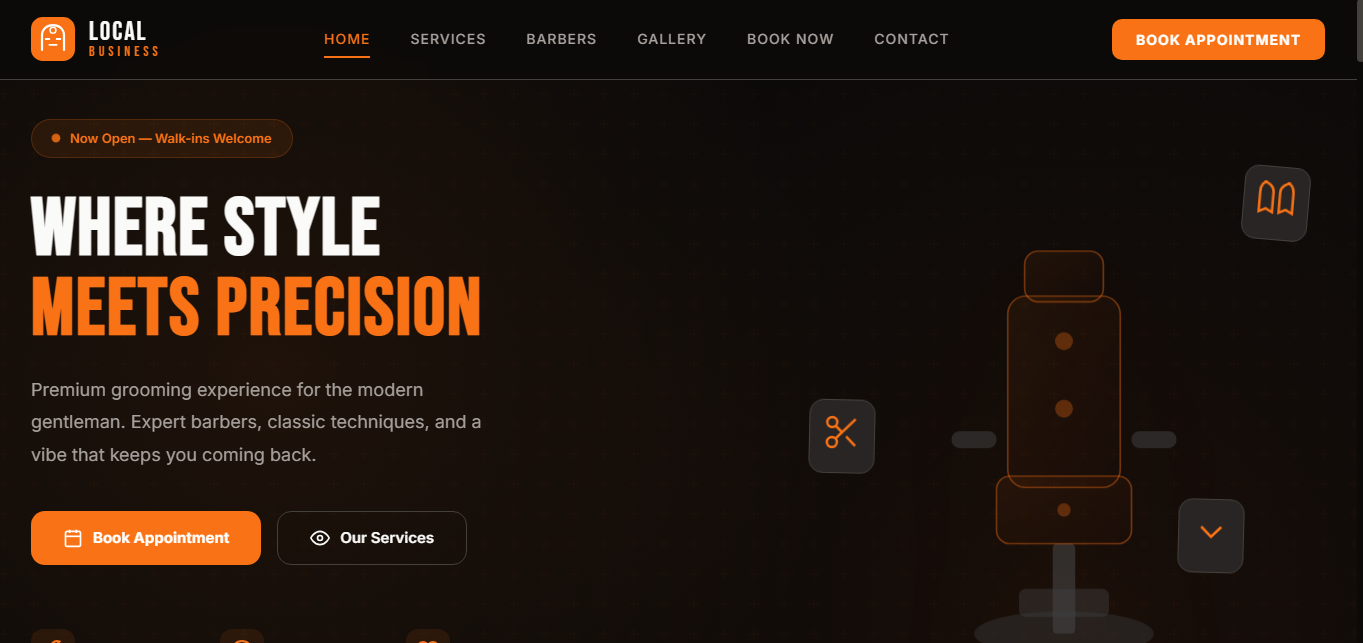
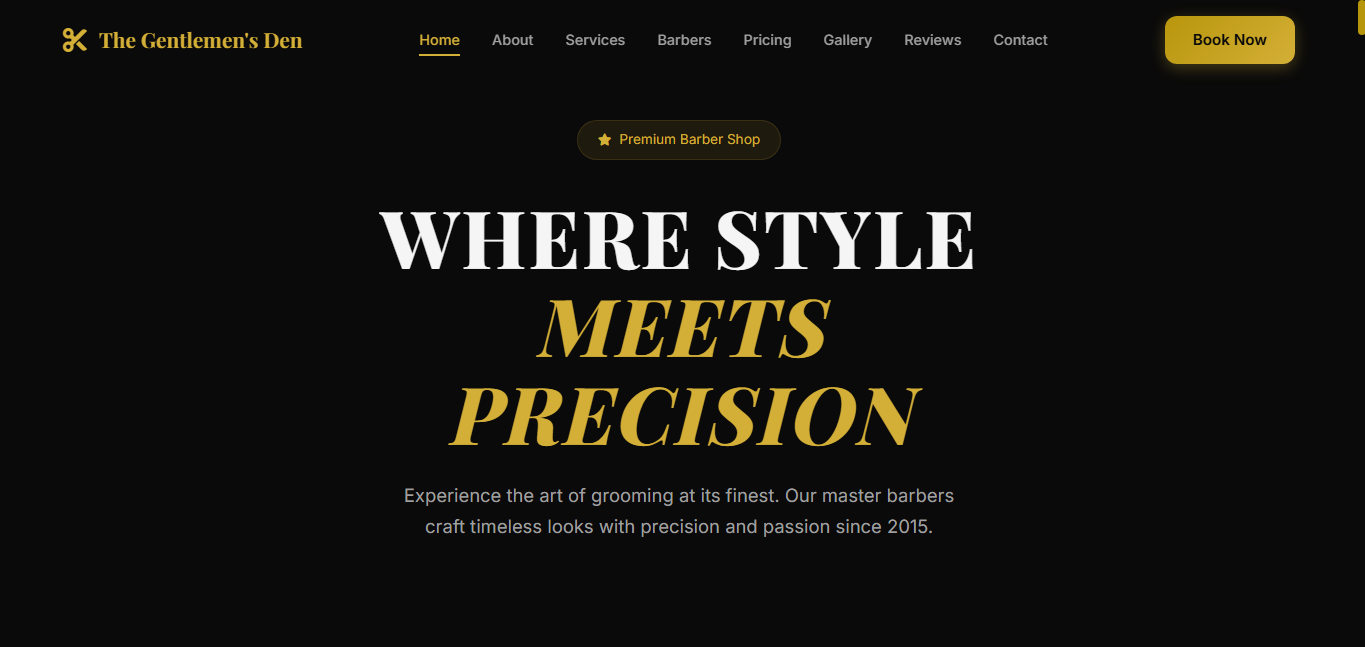
protfolio update

diff --git a/index.html b/index.html
@@ -2,6 +2,7 @@
 <!DOCTYPE html>
 <html lang="en">
 <head>
+    <link rel="stylesheet" href="https://cdnjs.cloudflare.com/ajax/libs/font-awesome/6.5.1/css/all.min.css">
     <meta charset="UTF-8">
     <meta name="viewport" content="width=device-width, initial-scale=1.0">
     <title>Jeffrey | Frontend Developer & Designer</title>
@@ -117,9 +118,10 @@
                 </a>
               <a href="#contact" class="btn btn-secondary">Contact Me</a>
 
-                  <a href="cv.html" target="_blank" class="btn btn-secondary">
-                    Open CV
-                   </a>
+             <a href="cv.html" class="btn btn-secondary" target="_blank">
+             <i class="fas fa-file-alt"></i>
+            Open CV
+            </a>
             </div>
 
 

diff --git a/cv.html b/cv.html
@@ -142,7 +142,7 @@
         </div>
 
         <div class="contact">
-            open to work<br>
+           Available for Freelance Projects<br>
             📧 [email redacted]<br>
             🔗 https://github.com/flhaidem-afk <br>
             🌐 https://flhaidem-afk.github.io/jeffrey/